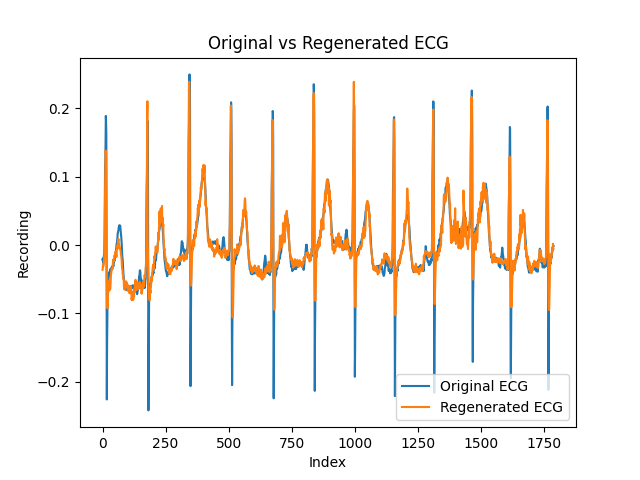
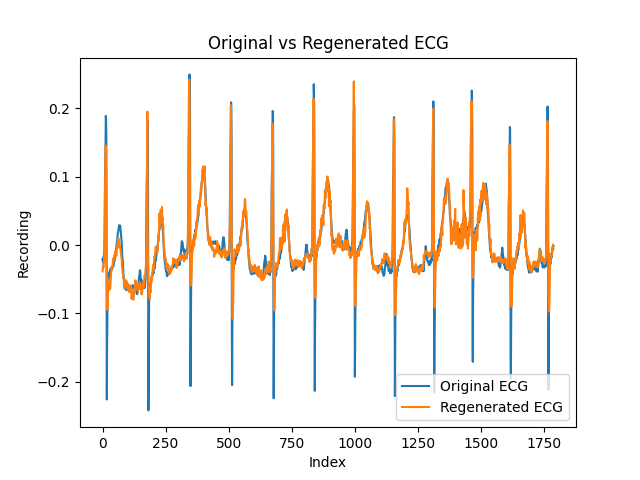
Final commit

diff --git a/src/utils.py b/src/utils.py
@@ -145,7 +145,7 @@ def performance_vis(test_data, model_id, sample_ind, n_segments, overlap, tr_tim
         test_ecg = plt1['y']
         means = plt2['y']
         stds = plt2['err']
-        plot_gaussians_3d(means, stds)
+        plot_gaussians_3d(means, stds, test_ecg=test_ecg)
 
         # close the Gaussians file
         comp_png_file.close()
@@ -170,6 +170,8 @@ def plot_gaussians_3d(means, stds, test_ecg=None, threshold=0.01):
 
     x = np.linspace(-0.5, 0.5, 1000) # 1000 points between -0.5 and 0.5
 
+    fig2, ax2 = plt.subplots()  # Create a new figure and axis for the bird's eye view plot
+
     # loop over means and stds to plot each gaussian
     for i, (mean, std) in enumerate(zip(means, stds)):
         y = 1 / (std * np.sqrt(2 * np.pi)) * np.exp(-0.5 * ((x - mean) / std) ** 2)
@@ -181,13 +183,62 @@ def plot_gaussians_3d(means, stds, test_ecg=None, threshold=0.01):
         z_new = i * np.ones_like(x_new)
         ax.plot(z_new, x_new, y_new, 'b-', alpha=0.2)
 
+        # Add the shaded interval between the two ends of the distribution to the bird's eye view plot
+        if len(x_new) > 0:
+            lower_bound = x_new[0]
+            upper_bound = x_new[-1]
+            ax2.fill_between([i, i], lower_bound, upper_bound, alpha=0.2, color='b')
+
     # plot the means and the test data if given
-    ax.plot(np.arange(len(means)), means, np.zeros_like(means), 'r-', linewidth=0.5)
-    if test_ecg:
-        ax.plot(np.arange(len(test_ecg)), test_ecg, np.zeros_like(test_ecg), 'g-', linewidth=0.5)
+    ax.plot(np.arange(len(means)), means, np.zeros_like(means), 'r-', linewidth=0.5, label='Regenerated ECG Means')
 
     ax.set_xlabel('Index')
     ax.set_ylabel('Recording')
     ax.set_zlabel('Probability Density')
-    plt.savefig(sys.stdout.buffer)
+    ax.set_title('Regenerated ECG Means with Gaussian Distributions')
+    ax.legend()
+    # plt.show()
+
+    # Customize the bird's eye view plot
+    ax2.plot(np.arange(len(test_ecg)), test_ecg, 'g-', linewidth=0.5, label='Original ECG')
+    ax2.set_xlabel('Index')
+    ax2.set_ylabel('Recording')
+    ax2.set_title('Original ECG with Regenerated Gaussian Intervals')
+    ax2.legend()
     plt.show()
+
+def loss_single_ecg(model_id, ecg_data):
+    # load the autoencoder model from the directory with model ID
+    model = load_model(f'../out/{model_id}/autoencoder.h5')
+
+    # regenerate the ECG samples using the autoencoder model
+    regenerations = []
+    for _ in range(15):
+        regenerations.append(model.predict(ecg_data))
+    regen_ecg = np.mean(regenerations, axis=0)
+
+    # compute the mean squared error between the original and reconstructed ECG samples
+    losses = []
+    for orig, regen in zip(ecg_data, regen_ecg):
+        losses.append(MeanSquaredError()(orig, regen).numpy())
+    
+    # plot the losses
+    plt.plot(range(len(losses)), losses, '-r', linewidth=2)
+    plt.xlabel('ECG Sample')
+    plt.ylabel('Loss')
+    plt.title('Losses over ECG Samples (Autoencoder)')
+    plt.xlim(1, 2600)
+    plt.ylim(0, 0.2)
+    plt.show()
+
+    mean_loss = np.mean(losses)
+    median_loss = np.median(losses)
+    std_loss = np.std(losses)
+    min_loss = np.min(losses)
+    max_loss = np.max(losses)
+
+    print(f"Mean loss: {mean_loss:.4f}")
+    print(f"Median loss: {median_loss:.4f}")
+    print(f"Standard deviation of loss: {std_loss:.4f}")
+    print(f"Minimum loss: {min_loss:.4f}")
+    print(f"Maximum loss: {max_loss:.4f}")

diff --git a/src/create_data_singlePatient.py b/src/create_data_singlePatient.py
@@ -1,15 +1,12 @@
 import numpy as np
 import matplotlib.pyplot as plt
 import scipy.io as sio
-from scipy.signal import resample
 import csv
 
+import globals
 from utils import proc_single_ecg
 
-subject = '10' # subject number to load data from, 01-69 (make sure there are two digits)
-fs_new = 250 # new sampling frequency
-n_samples = 1000 # number of samples in the final dataset
-overlap = 0.5 # overlap percentage between windows
+subject = '65' # subject number to load data from, 01-69 (make sure there are two digits)
 
 # load the data from the specified file
 data = sio.loadmat(f'../ephnogram-a-simultaneous-electrocardiogram-and-phonocardiogram-database-1.0.0/MAT/ECGPCG00{subject}.mat')
@@ -23,7 +20,7 @@ print(f'Size: {len(raw_ecg)}')
 print(f'Sampling Frequency (fs): {fs}')
 
 # process the ECG data
-ecg_data = proc_single_ecg(raw_ecg, fs, fs_new=250, n_samples=1000, overlap=0.5)
+ecg_data = proc_single_ecg(raw_ecg, fs, fs_new=250, n_samples=2500, overlap=globals.overlap)
 
 # print the shape of the final dataset that is saved
 print(f'Final shape of the dataset: {np.shape(ecg_data)}')

diff --git a/src/performance.py b/src/performance.py
@@ -1,10 +1,5 @@
-import numpy as np
 import pandas as pd
-import matplotlib.pyplot as plt
-import tensorflow as tf
-from keras.models import load_model
 from sklearn.model_selection import train_test_split
-import sys
 
 import globals
 from utils import performance_vis
@@ -18,5 +13,5 @@ data = df.to_numpy()
 # perform the train-test-split, discarding the training set
 _, test_data = train_test_split(data, test_size=0.2, shuffle=False)
 
-performance_vis(test_data, model_id='20230224-131313',
-                sample_ind=25500, n_segments=10, overlap=globals.overlap, bayes=globals.bayes)
+performance_vis(test_data, model_id='20230429-234553',
+                sample_ind=25495, n_segments=10, overlap=globals.overlap, bayes=globals.bayes)

diff --git a/src/autoencoder.py b/src/autoencoder.py
@@ -5,7 +5,6 @@ from tensorflow import random
 from keras.layers import Input, Dense, Dropout, Conv1D, Flatten, Reshape, AveragePooling1D, Conv1DTranspose, UpSampling1D, GlobalAveragePooling1D
 from keras.models import Model
 from keras.optimizers import Adam
-from keras.losses import LogCosh, Huber, MeanSquaredError
 from keras.callbacks import LearningRateScheduler, EarlyStopping
 from sklearn.metrics import mean_squared_error
 import matplotlib.pyplot as plt

diff --git a/src/graph_single_ecg_loss.py b/src/graph_single_ecg_loss.py
@@ -1,0 +1,12 @@
+# import numpy as np
+import pandas as pd
+
+from utils import loss_single_ecg
+
+# load the data from the csv file into a pandas dataframe
+df = pd.read_csv("../res/singlePatient.csv", header=None)
+
+# convert the dataframe to a numpy array
+ecg_data = df.to_numpy()
+
+loss_single_ecg('20230224-131313', ecg_data)

diff --git a/src/visualise_model.py b/src/visualise_model.py
@@ -1,7 +1,7 @@
 from keras.models import load_model
 from keras.utils import plot_model
 
-model_id = '20230224-131313'
+model_id = '20230213-004700'
 
 model = load_model(f'../out/{model_id}/autoencoder.h5')
 plot_model(model, to_file=f'../out/{model_id}/model_architecture.png', show_shapes=True, show_layer_names=True)

diff --git a/src/globals.py b/src/globals.py
@@ -2,4 +2,4 @@
 overlap = 0.2
 
 # Bayesian? (True or False)
-bayes = True
+bayes = False
